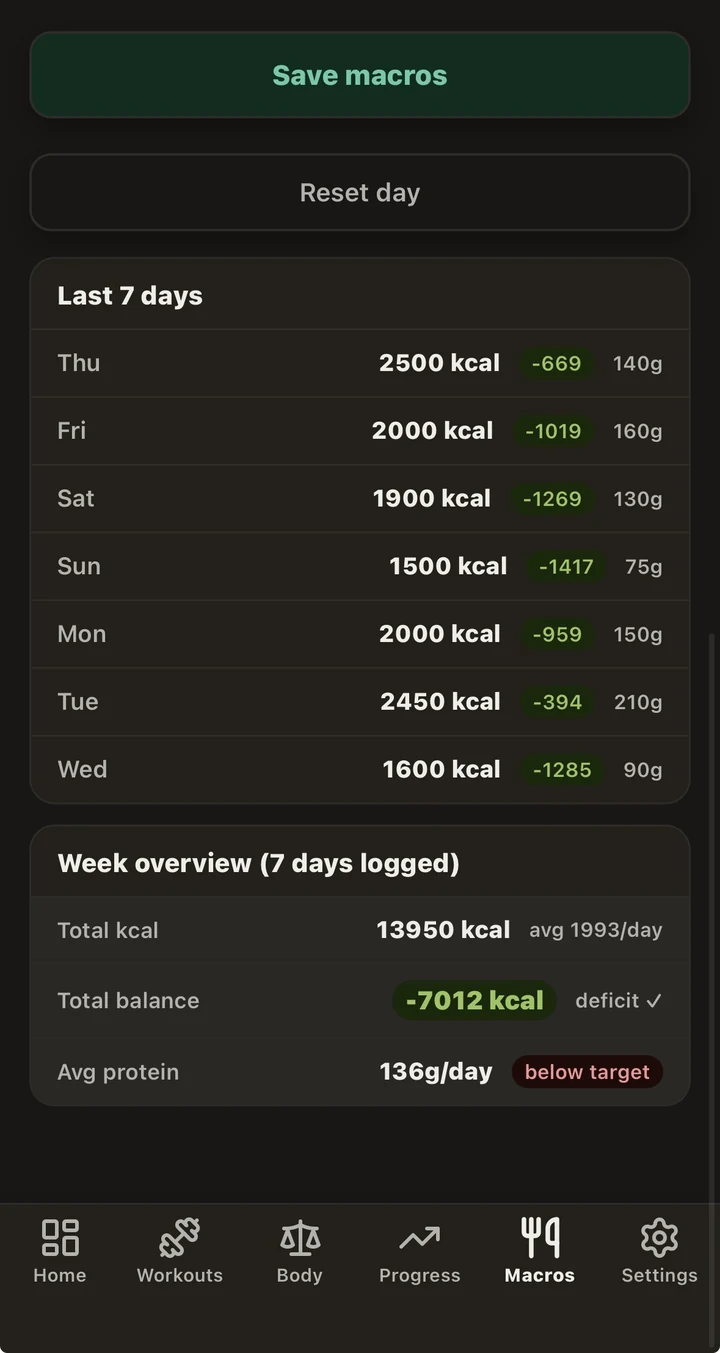
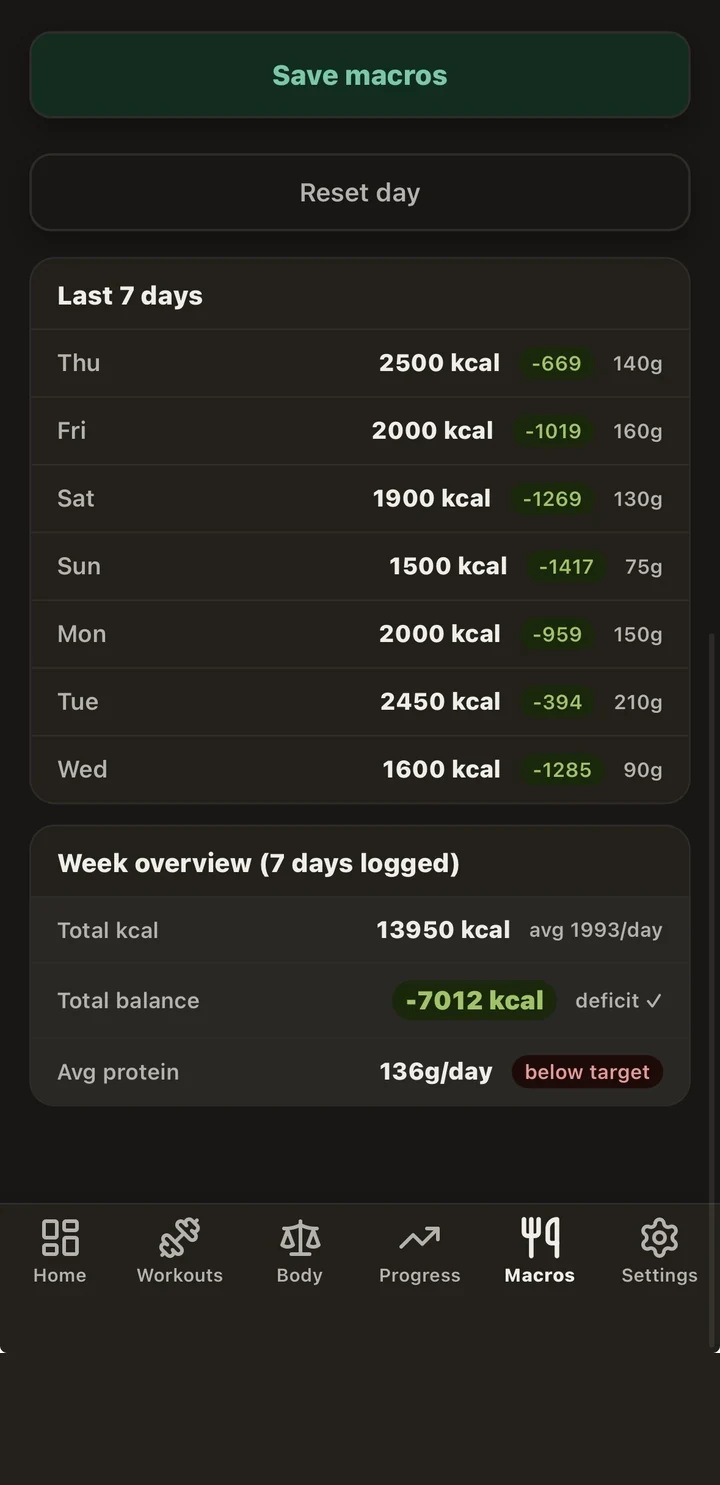
Add files via upload

diff --git a/index.html b/index.html
@@ -777,7 +777,7 @@ body{font-family:'Inter',-apple-system,'SF Pro Text','SF Pro Display',system-ui,
         </div>
       </div>
       <div class="phone-mock">
-        <img src="/assets/screenshots/start.webp" data-src-da="/assets/screenshots/start.webp" data-src-en="/assets/screenshots/start-en.webp" width="720" height="1469" fetchpriority="high" decoding="async" alt="Training log dashboard — today's focus, this week's training, macros and sleep on one screen">
+        <img src="/assets/screenshots/start.webp" data-src-da="/assets/screenshots/start.webp" data-src-en="/assets/screenshots/start-en.webp" width="720" height="1485" fetchpriority="high" decoding="async" alt="Training log dashboard — today's focus, this week's training, macros and sleep on one screen">
       </div>
     </div>
 
@@ -785,7 +785,7 @@ body{font-family:'Inter',-apple-system,'SF Pro Text','SF Pro Display',system-ui,
     <div class="screenshot-showcase">
       <div class="shot-card">
         <div class="shot-frame">
-          <img src="/assets/screenshots/fremgang-pr.webp" data-src-da="/assets/screenshots/fremgang-pr.webp" data-src-en="/assets/screenshots/fremgang-pr-en.webp" width="720" height="1464" loading="lazy" decoding="async" alt="">
+          <img src="/assets/screenshots/fremgang-pr.webp" data-src-da="/assets/screenshots/fremgang-pr.webp" data-src-en="/assets/screenshots/fremgang-pr-en.webp" width="720" height="1485" loading="lazy" decoding="async" alt="">
         </div>
         <div class="shot-caption">
           <span data-lang class="on" data-lang-id="da">Styrke-fremgang</span>
@@ -811,7 +811,7 @@ body{font-family:'Inter',-apple-system,'SF Pro Text','SF Pro Display',system-ui,
       </div>
       <div class="shot-card">
         <div class="shot-frame">
-          <img src="/assets/screenshots/makrolog-uge.webp" data-src-da="/assets/screenshots/makrolog-uge.webp" data-src-en="/assets/screenshots/makrolog-uge-en.webp" width="720" height="1336" loading="lazy" decoding="async" alt="">
+          <img src="/assets/screenshots/makrolog-uge.webp" data-src-da="/assets/screenshots/makrolog-uge.webp" data-src-en="/assets/screenshots/makrolog-uge-en.webp" width="720" height="1485" loading="lazy" decoding="async" alt="">
         </div>
         <div class="shot-caption">
           <span data-lang class="on" data-lang-id="da">Kost-konsistens</span>
